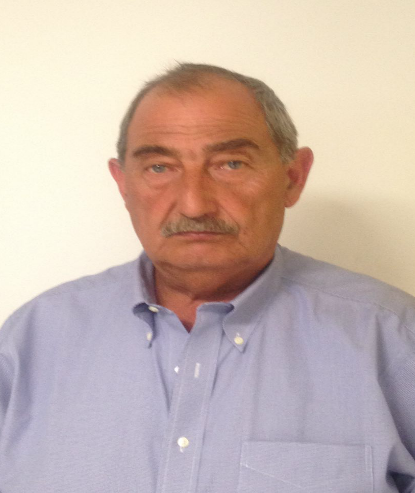
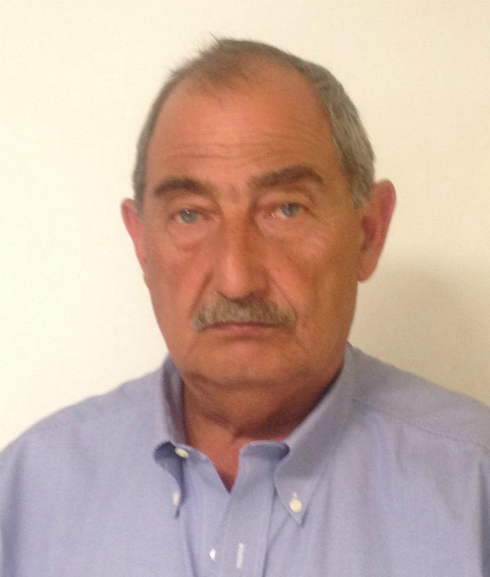
Add new background image and change profile photos in section team

diff --git a/index.html b/index.html
@@ -101,7 +101,7 @@ layout: default
 			<p>Administración y RR.HH</p>
 		</li>
 		<li class="member card">
-			<img src="/images/elhordoy-resize.png" alt="Foto perfil Guillermo Elhordoy">
+			<img src="/images/elhordoy-resize.jpg" alt="Foto perfil Guillermo Elhordoy">
 			<h3>Sr. Guillermo Elhordoy </h3>
 			<p>Administración y RR.HH</p>
 		</li>

diff --git a/css/main.css b/css/main.css
@@ -71,7 +71,7 @@ nav li a {
 	line-height: 13pt;
 }
 section.hero {
-	background: transparent url("/images/background-image.jpg") center top no-repeat;
+	background: transparent url("/images/background-image-2.jpg") center top no-repeat;
     background-size: cover;
     width: 100%;
     display: table;
